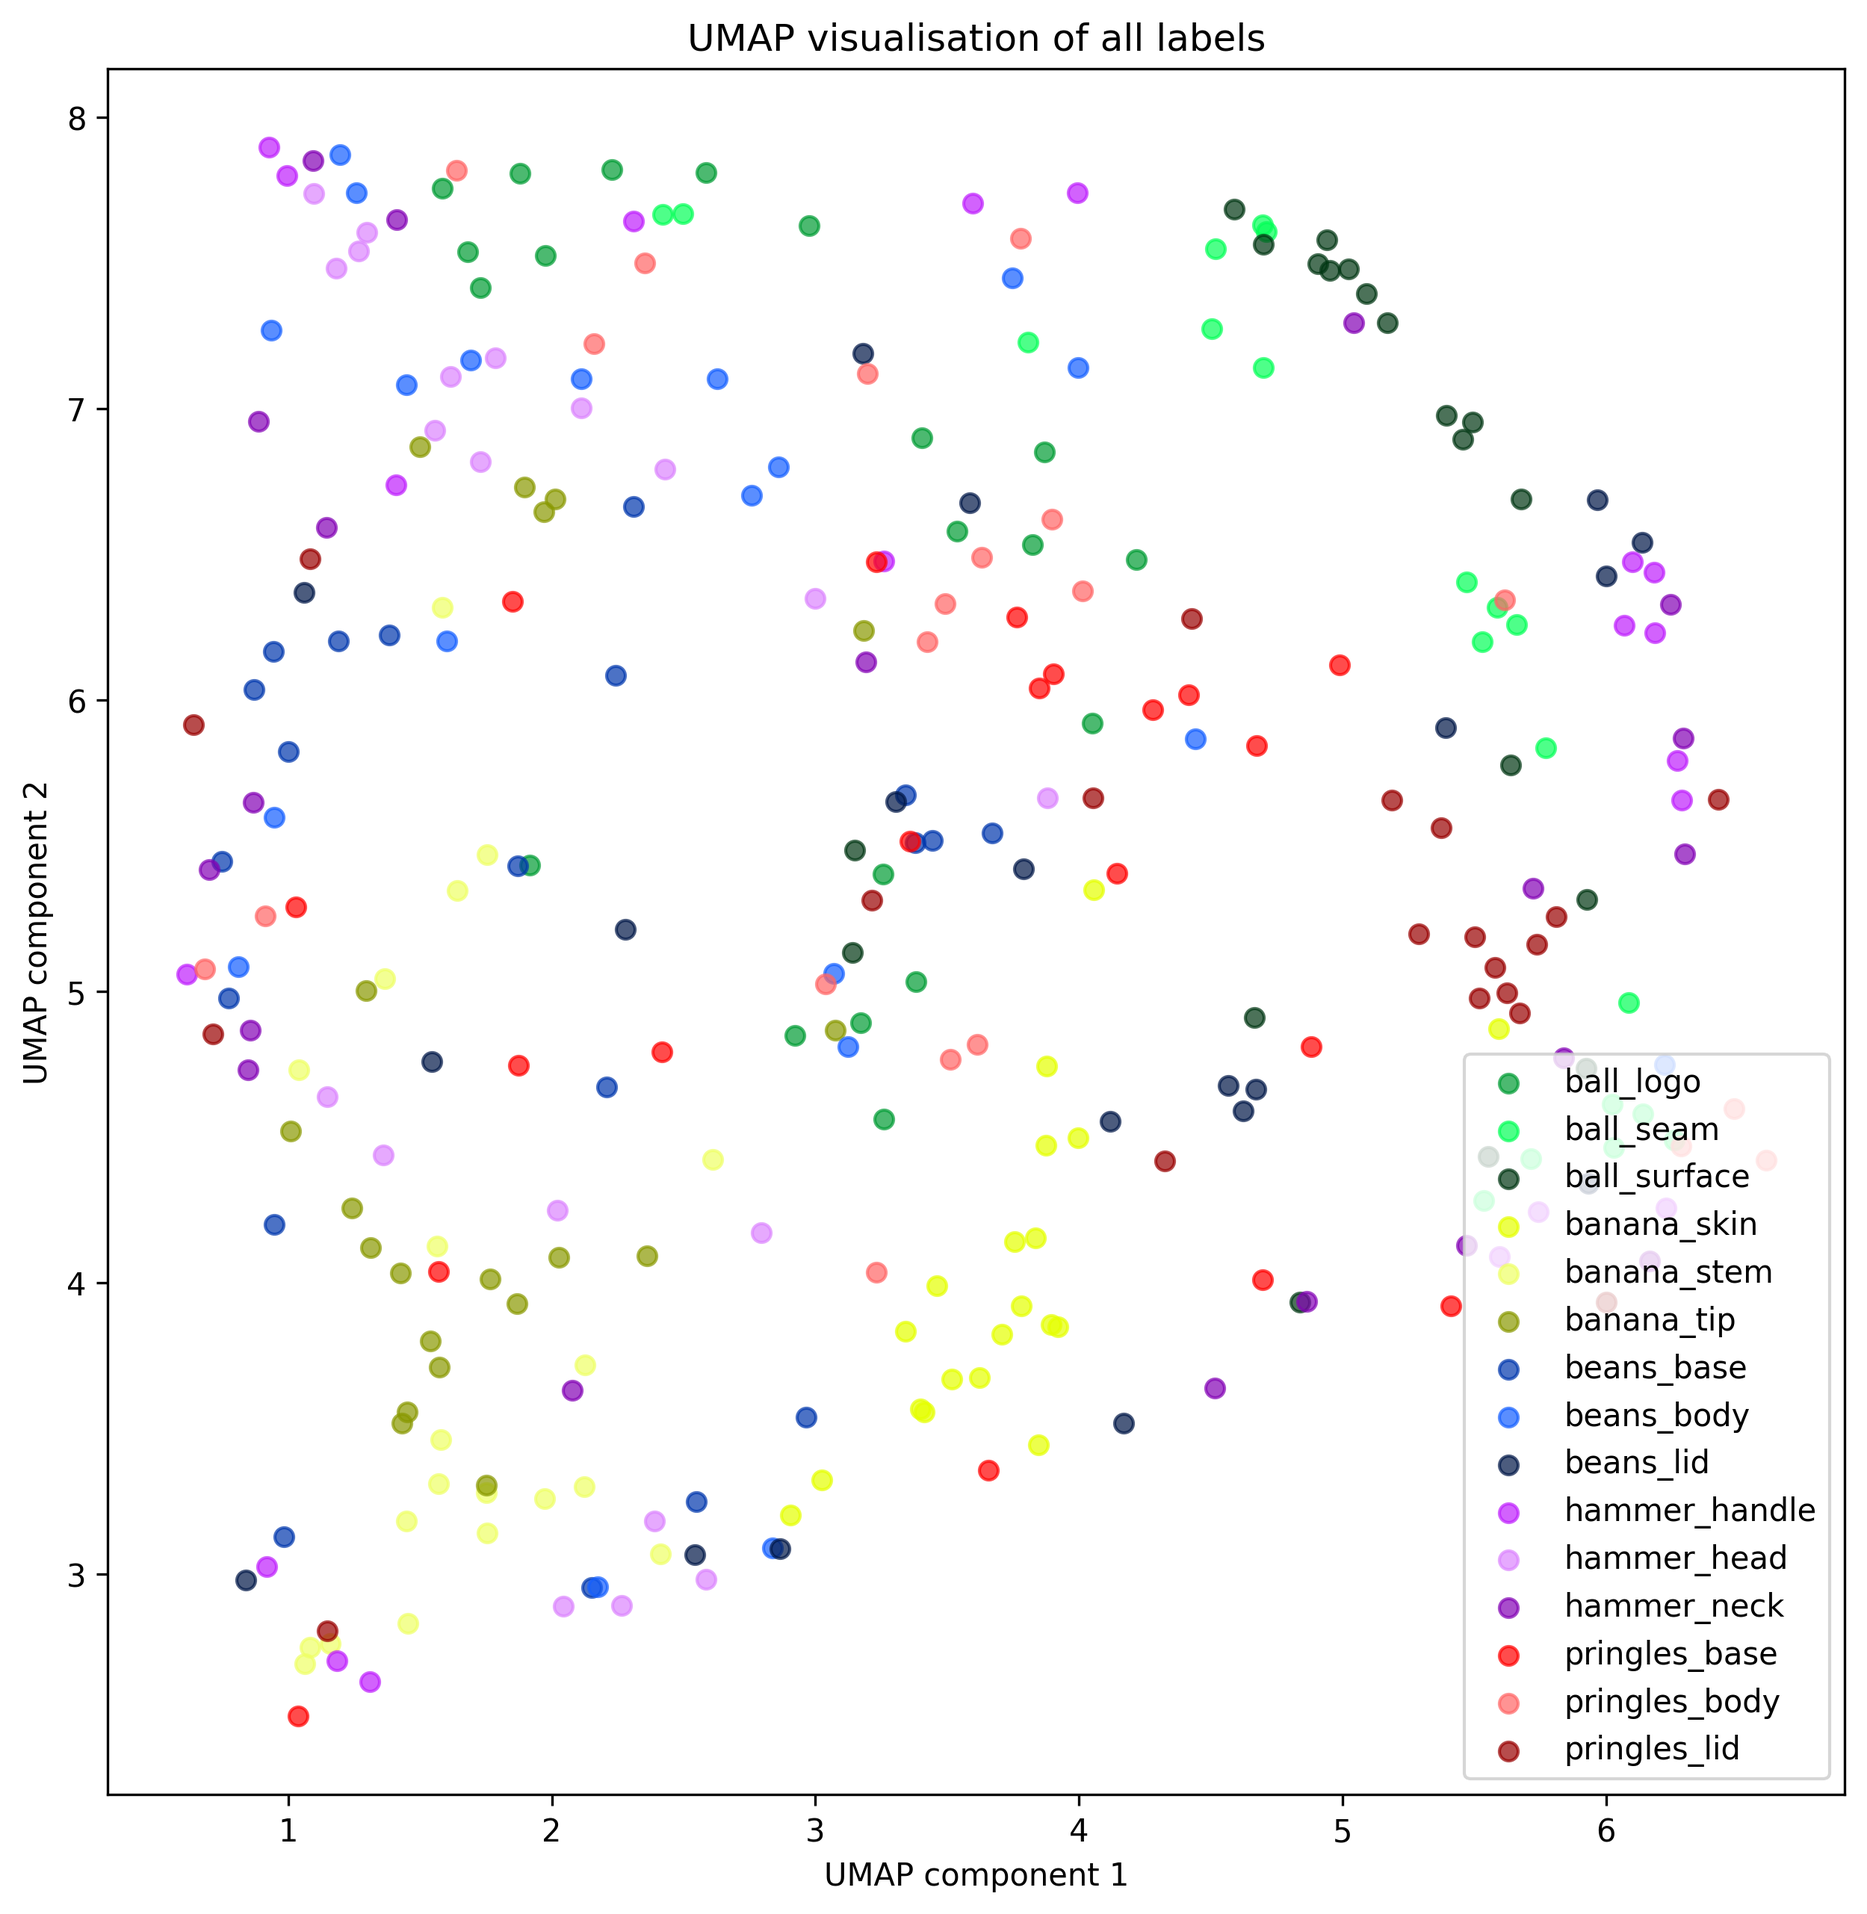
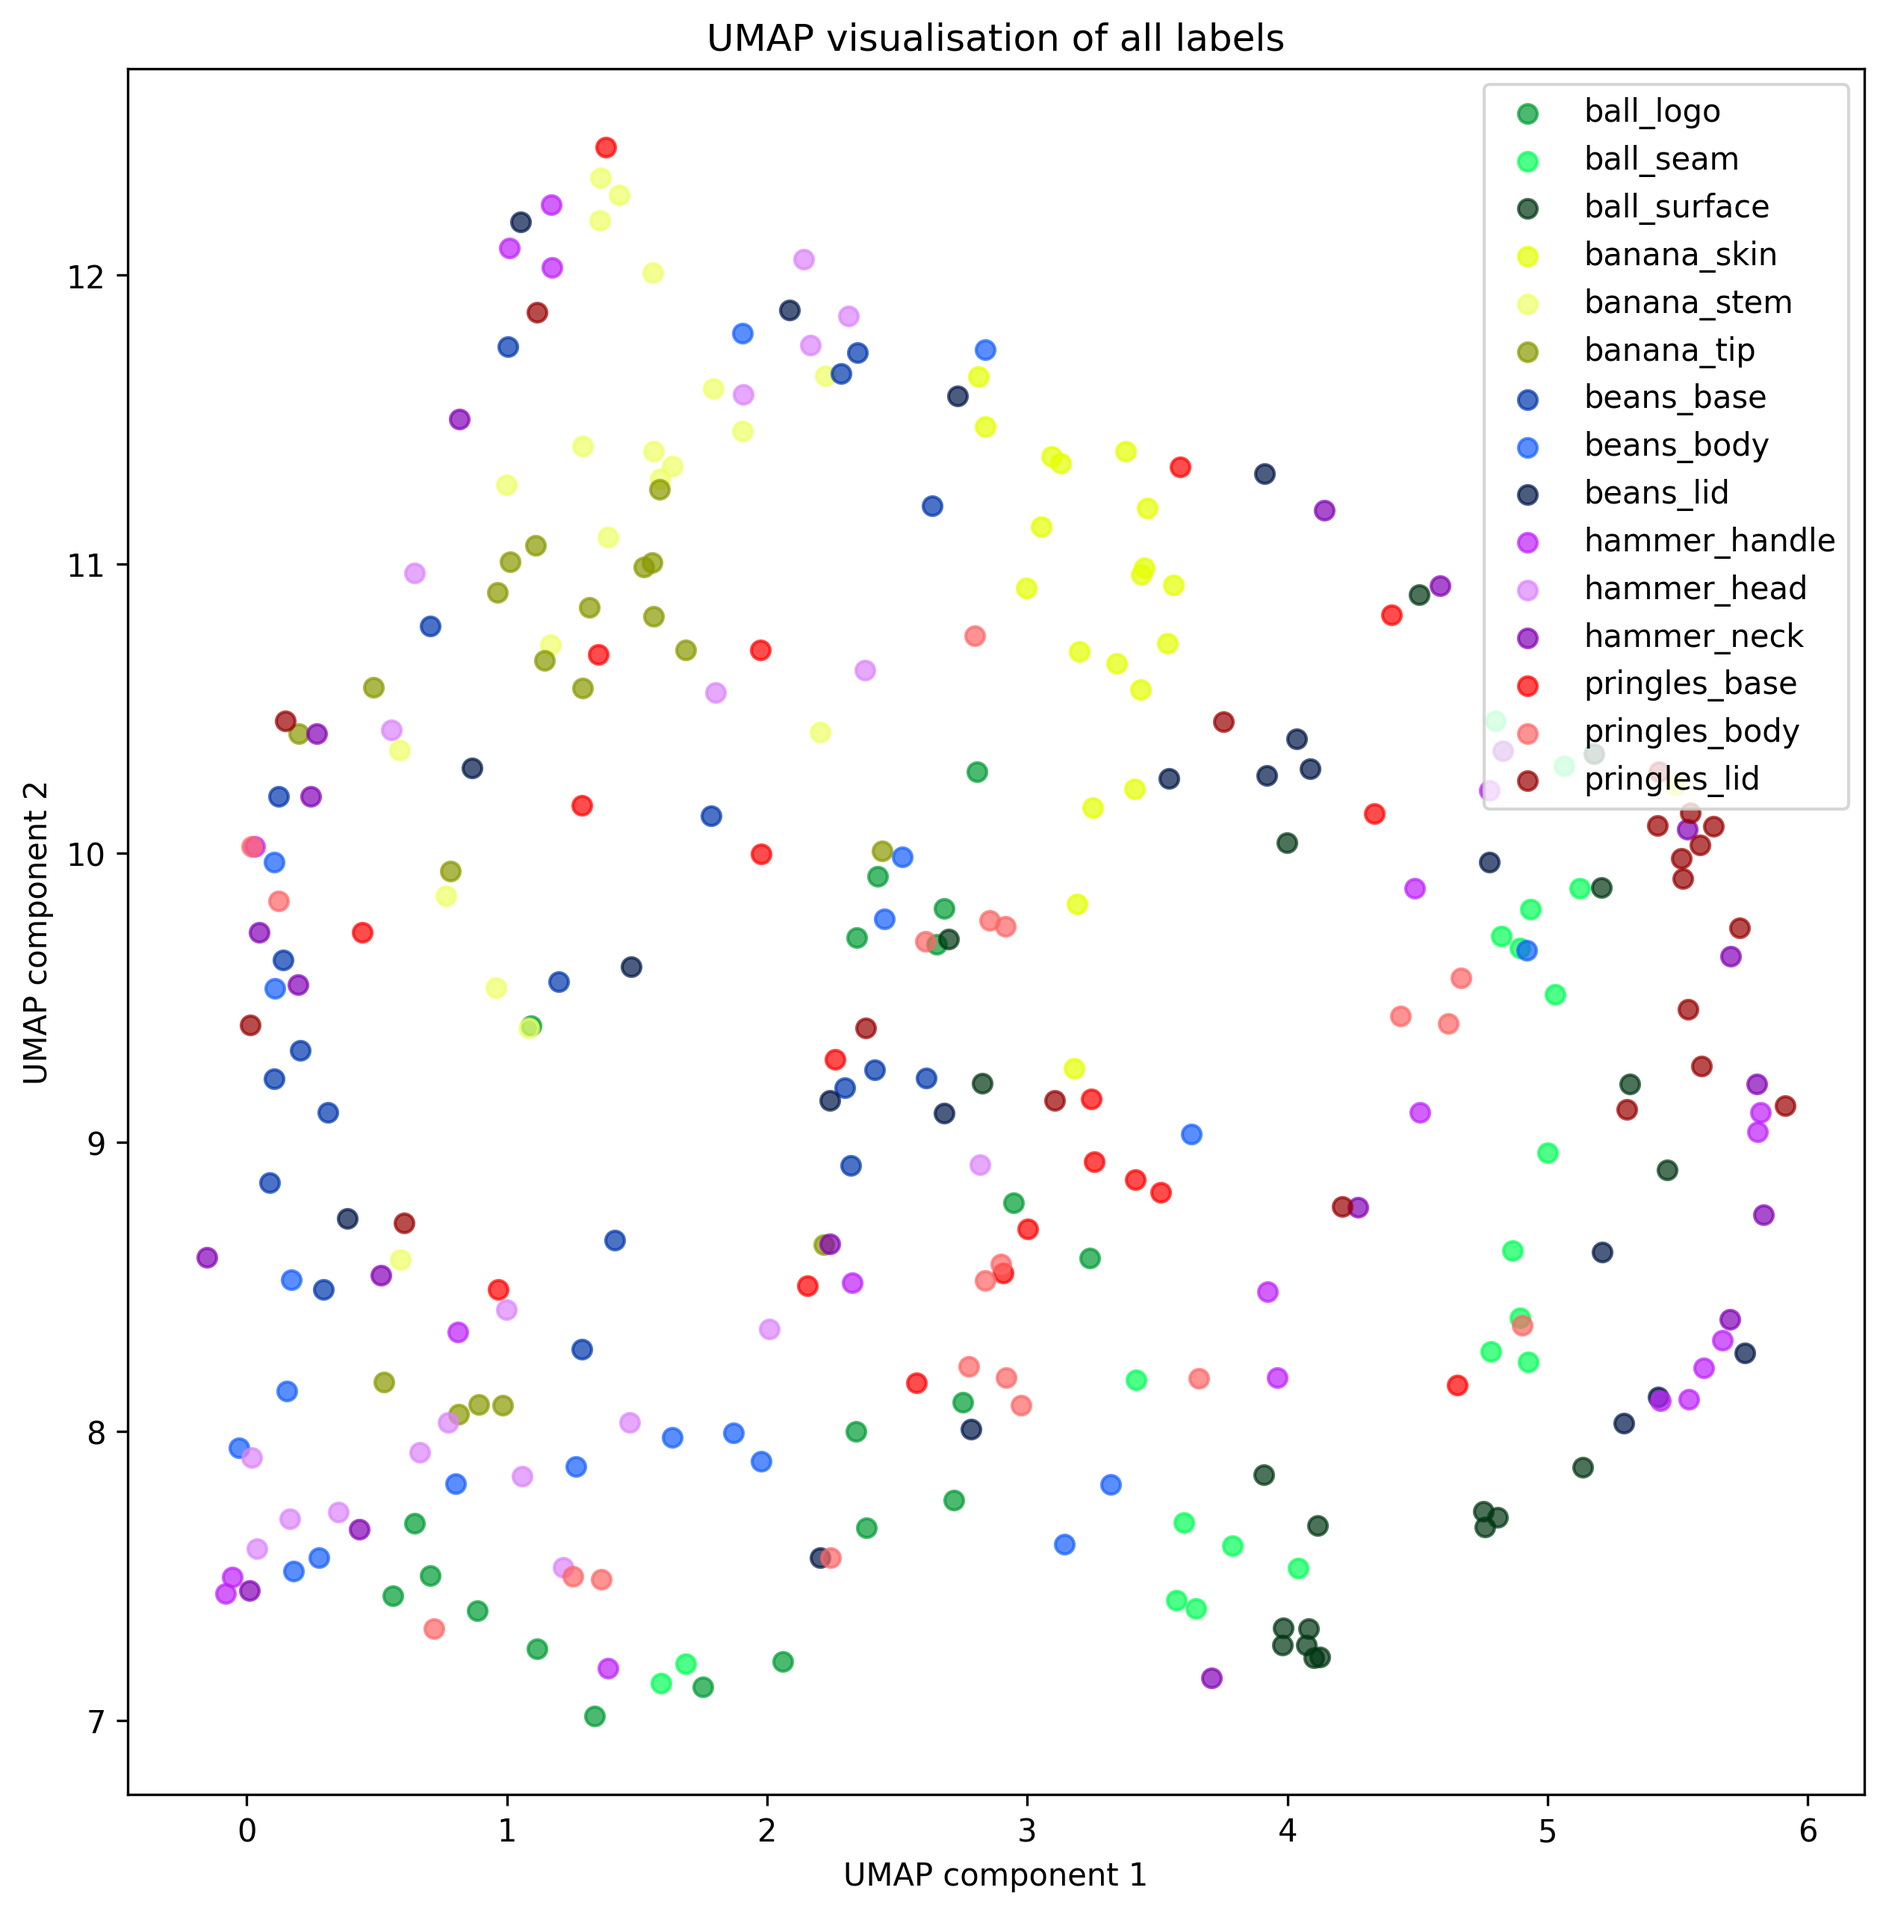
Fixed an incorrect label

diff --git a/ml_clusters.py b/ml_clusters.py
@@ -25,23 +25,26 @@ print(f"Extracted features from {len(features)} images")
 print(f"Feature vector size: {features.shape[1]}")
 print(f"Object types found: {set(labels)}")
 
+# Set random state for reproducibility
+random_state = 42
+
 # PCA
 print('Performing PCA...')
-features_2d = cluster_functions.pca_reduce(features, 42)
+features_2d = cluster_functions.pca_reduce(features, random_state)
 # Plot the results
 cluster_functions.plot_labels_2d('PCA', 'plots/ml', features_2d, labels)
 cluster_functions.plot_objects_2d('PCA', 'plots/ml', features_2d, labels)
 
 # t-SNE
 print('Performing t-SNE...')
-features_2d = cluster_functions.perform_tsne(features, 42)
+features_2d = cluster_functions.perform_tsne(features, random_state)
 # Plot the results
 cluster_functions.plot_labels_2d('t-SNE', 'plots/ml', features_2d, labels)
 cluster_functions.plot_objects_2d('t-SNE', 'plots/ml', features_2d, labels)
 
 # UMAP
 print('Performing UMAP...')
-features_2d = cluster_functions.perform_umap(features, 42)
+features_2d = cluster_functions.perform_umap(features, random_state)
 # Plot the results
 cluster_functions.plot_labels_2d('UMAP', 'plots/ml', features_2d, labels)
 cluster_functions.plot_objects_2d('UMAP', 'plots/ml', features_2d, labels)
